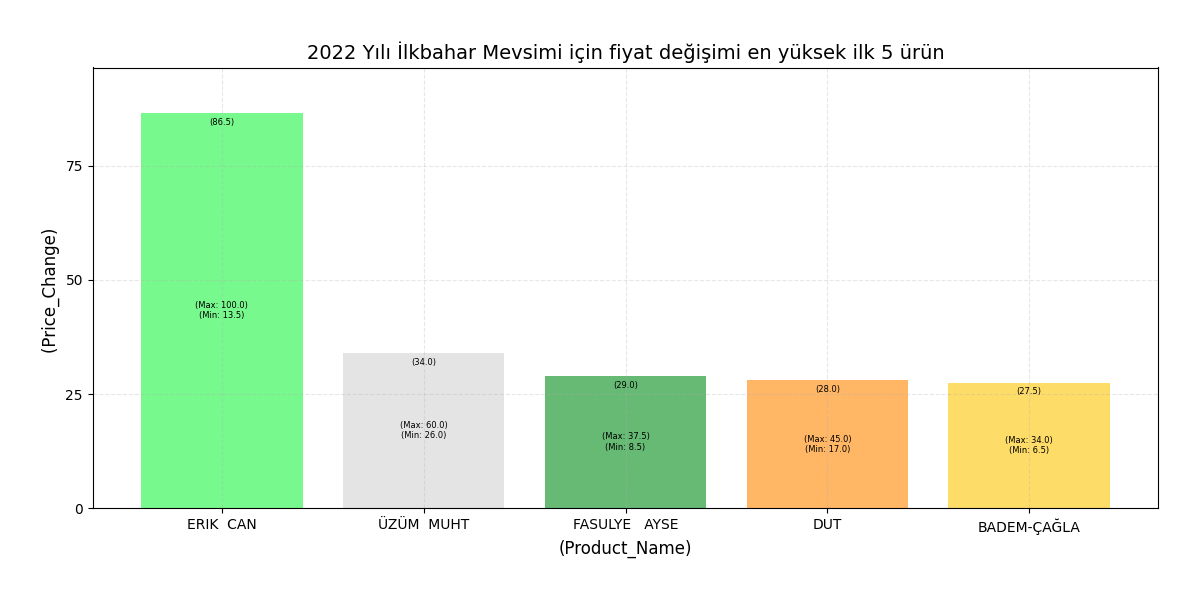
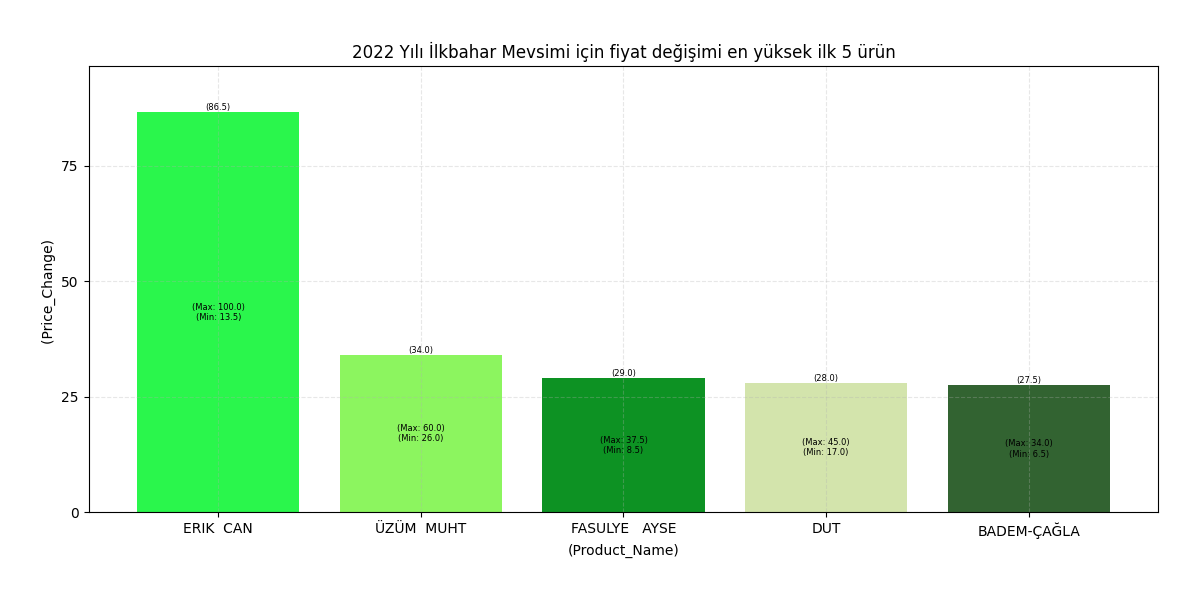
alpson2-5

Changed region(s): [[0.0308, 0.18, 0.9558, 0.93], [0.0925, 0.06, 0.9558, 0.12]]

diff --git a/scripts/2022_yili_ilkbahar_mevsimi_icin_fiyat_degisimi_en_yuksek_olan_ilk_5_urun.py b/scripts/2022_yili_ilkbahar_mevsimi_icin_fiyat_degisimi_en_yuksek_olan_ilk_5_urun.py
@@ -1,8 +1,7 @@
 import pandas as pd
-import matplotlib.pyplot as plt
 import seaborn as sns
 import pymysqldbconnet
-
+import matplotlib.pyplot as plt
 # Veritabanı bağlantısını sağlama ve sql sorgusunu okuma 
 connection = pymysqldbconnet.get_db_connection()
 with open('queries/2022 Yılı  İlkbahar Mevsimi için fiyat değişimi en yüksek olan ilk 5 ürün.sql', 'r') as file:
@@ -12,31 +11,26 @@ with open('queries/2022 Yılı  İlkbahar Mevsimi için fiyat değişimi en yük
 df = pd.read_sql(sql_query, connection)
 connection.close()
 
-
- 
-
 # Grafik Çizimi
-custom_colors = ['#1ef642', '#D3D3D3', '#008c17', '#ff8800', '#fec604'] 
+custom_colors = ['#1ef642', '#86f556', '#008c17', '#d1e3a8', '#275b26'] 
 plt.figure(figsize=(12, 6)) 
-bars = plt.bar(df['name'], df['price_change'], color=custom_colors, alpha=0.6)
+bars = plt.bar(df['name'], df['price_change'], color=custom_colors, alpha=0.95)
 
 
 # Grafik Özellikleri ve çubuklara metin ekleme
 
-plt.title("2022 Yılı İlkbahar Mevsimi için fiyat değişimi en yüksek ilk 5 ürün", fontsize=14)
-plt.ylabel('(Price_Change) ', fontsize=12)
-plt.xlabel('(Product_Name)', fontsize=12)
+plt.title("2022 Yılı İlkbahar Mevsimi için fiyat değişimi en yüksek ilk 5 ürün")
+plt.ylabel('(Price_Change) ', fontsize=10)
+plt.xlabel('(Product_Name)', fontsize=10)
 plt.yticks(range(0, int(df['price_change'].max() + 25), 25))
 plt.grid(True, linestyle='--', alpha=0.3)
 plt.ylim(0, df['price_change'].max() + 10)
 plt.tight_layout()
 plt.tight_layout(pad=3)
 for bar, (_, row) in zip(bars, df.iterrows()):
-    # Çubuğun ortasında maksimum ve minimum fiyatları göstermek
     plt.text(bar.get_x() + bar.get_width() / 2, bar.get_height() / 2, 
              f'(Max: {row["max_price"]})\n(Min: {row["min_price"]})', ha='center', va='center', fontsize=6, color='black')
-    # Çubuğun üst kısmındaki fiyat değişimini parantez içine almak
-    plt.text(bar.get_x() + bar.get_width() / 2, bar.get_height() - 3, 
+    plt.text(bar.get_x() + bar.get_width() / 2, bar.get_height(), 
              f'({row["price_change"]})', ha='center', va='bottom', fontsize=6, color='black')
 
 plt.savefig('outputs/2022 Yılı İlkbahar Mevsimi için fiyat değişimi en yüksek ilk 5 ürün.png')

diff --git a/scripts/2022_yili_kis_mevsimi_icin_fiyat_degisimi_en_yuksek_olan_ilk_5_urun.py b/scripts/2022_yili_kis_mevsimi_icin_fiyat_degisimi_en_yuksek_olan_ilk_5_urun.py
@@ -1,0 +1,36 @@
+import pandas as pd
+import matplotlib.pyplot as plt
+import seaborn as sns
+import pymysqldbconnet
+
+# Veritabanı bağlantısını sağlama ve sql sorgusunu okuma 
+connection = pymysqldbconnet.get_db_connection()
+with open('queries/2022 Yılı  Kış Mevsimi için fiyat değişimi en yüksek olan ilk 5 ürün.sql', 'r') as file:
+    sql_query = file.read()
+
+# Veritabanından veri çekme
+df = pd.read_sql(sql_query, connection)
+connection.close()
+
+# Grafik Çizimi
+custom_colors = ['#b00303', '#B3A28F', '#8E3A23', '#ece6d1', '#F8E4BE'] 
+plt.figure(figsize=(12, 6)) 
+bars = plt.bar(df['name'], df['price_change'], color=custom_colors, alpha=0.8)
+
+# Grafik Özellikleri ve çubuklara metin ekleme
+plt.title("2022 Yılı Kış Mevsimi için fiyat değişimi en yüksek ilk 5 ürün", fontsize=12)
+plt.ylabel('(Price_Change) ', fontsize=8)
+plt.xlabel('(Product_Name)', fontsize=8)
+plt.yticks(range(0, int(df['price_change'].max() + 50), 10))
+plt.grid(True, linestyle='--', alpha=0.2)
+plt.ylim(0, df['price_change'].max() + 10)
+plt.tight_layout()
+plt.tight_layout(pad=3)
+for bar, (_, row) in zip(bars, df.iterrows()):
+    plt.text(bar.get_x() + bar.get_width() / 2, bar.get_height() / 2, 
+             f'(Max: {row["max_price"]})\n(Min: {row["min_price"]})', ha='center', va='center', fontsize=6, color='black')
+    plt.text(bar.get_x() + bar.get_width() / 2, bar.get_height() , 
+             f'({row["price_change"]})', ha='center', va='bottom', fontsize=6, color='black')
+
+plt.savefig('outputs/2022 Yılı Kış Mevsimi için fiyat değişimi en yüksek ilk 5 ürün.png')
+plt.show()

diff --git a/scripts/2022_yili_sonbahar_mevsimi_icin_fiyat_degisimi_en_yuksek_olan_ilk_5_urun.py b/scripts/2022_yili_sonbahar_mevsimi_icin_fiyat_degisimi_en_yuksek_olan_ilk_5_urun.py
@@ -1,0 +1,35 @@
+import seaborn as sns
+import matplotlib.pyplot as plt
+import pymysqldbconnet
+import pandas as pd
+# Veritabanı bağlantısını sağlama ve sql sorgusunu okuma 
+connection = pymysqldbconnet.get_db_connection()
+with open('queries/2022 Yılı  Sonbahar Mevsimi için fiyat değişimi en yüksek olan ilk 5 ürün.sql', 'r') as file:
+    sql_query = file.read()
+
+# Veritabanından veri çekme
+df = pd.read_sql(sql_query, connection)
+connection.close()
+
+# Grafik Çizimi
+custom_colors = ['#A52A2A', '#A7C17D', '#8B5A2B', '#EEDC9A', '#D1112E'] 
+plt.figure(figsize=(12, 6)) 
+bars = plt.bar(df['name'], df['price_change'], color=custom_colors, alpha=0.9)
+
+# Grafik Özellikleri ve çubuklara metin ekleme
+plt.title("2022 Yılı Sonbahar Mevsimi için fiyat değişimi en yüksek ilk 5 ürün",)
+plt.ylabel('(Price_Change) ', fontsize=10)
+plt.xlabel('(Product_Name)', fontsize=10)
+plt.yticks(range(0, int(df['price_change'].max() + 50), 10))
+plt.grid(True, linestyle='--', alpha=0.3)
+plt.ylim(0, df['price_change'].max() + 10)
+plt.tight_layout()
+plt.tight_layout(pad=3)
+for bar, (_, row) in zip(bars, df.iterrows()):
+    plt.text(bar.get_x() + bar.get_width() / 2, bar.get_height() / 2 , 
+             f'(Max: {row["max_price"]})\n(Min: {row["min_price"]})', ha='center', va='center', fontsize=6, color='black')
+    plt.text(bar.get_x() + bar.get_width() / 2, bar.get_height(), 
+             f'({row["price_change"]})', ha='center', va='bottom', fontsize=6, color='black')
+
+plt.savefig('outputs/2022 Yılı Sonbahar Mevsimi için fiyat değişimi en yüksek ilk 5 ürün.png')
+plt.show()

diff --git a/scripts/2022_yili_yaz_mevsimi_icin_fiyat_degisimi_en_yuksek_olan_5_urun.py b/scripts/2022_yili_yaz_mevsimi_icin_fiyat_degisimi_en_yuksek_olan_5_urun.py
@@ -1,0 +1,36 @@
+import pymysqldbconnet
+import pandas as pd
+import seaborn as sns
+import matplotlib.pyplot as plt
+# Veritabanı bağlantısını sağlama ve sql sorgusunu okuma
+connection = pymysqldbconnet.get_db_connection()
+with open('queries/2022 Yılı  Yaz Mevsimi için fiyat değişimi en yüksek olan 5 ürün.sql', 'r') as file:
+    sql_query = file.read()
+
+# Veritabanından veri çekme
+df = pd.read_sql(sql_query, connection)
+connection.close()
+
+# Grafik Çizimi
+custom_colors = ['#df0000', '#4B0320', '#c30606', '#9c1111', '#8B5A2B'] 
+plt.figure(figsize=(12, 6)) 
+bars = plt.bar(df['name'], df['price_change'], color=custom_colors)
+
+
+# Grafik Özellikleri ve çubuklara metin ekleme
+plt.title("2022 Yılı Yaz Mevsimi için fiyat değişimi en yüksek ilk 5 ürün")
+plt.ylabel('(Price_Change) ', fontsize=10)
+plt.xlabel('(Product_Name)', fontsize=10)
+plt.yticks(range(0, int(df['price_change'].max() + 25), 10))
+plt.grid(True, linestyle='--', alpha=0.2)
+plt.ylim(0, df['price_change'].max() + 10)
+plt.tight_layout()
+plt.tight_layout(pad=3)
+for bar, (_, row) in zip(bars, df.iterrows()):
+    plt.text(bar.get_x() + bar.get_width() / 2, bar.get_height() / 2, 
+             f'(Max: {row["max_price"]})\n(Min: {row["min_price"]})', ha='center', va='center', fontsize=6, color='white')
+    plt.text(bar.get_x() + bar.get_width() / 2, bar.get_height() + 1, 
+             f'({row["price_change"]})', ha='center', va='bottom', fontsize=6, color='black')
+
+plt.savefig('outputs/2022 Yılı Yaz Mevsimi için fiyat değişimi en yüksek ilk 5 ürün.png')
+plt.show()
